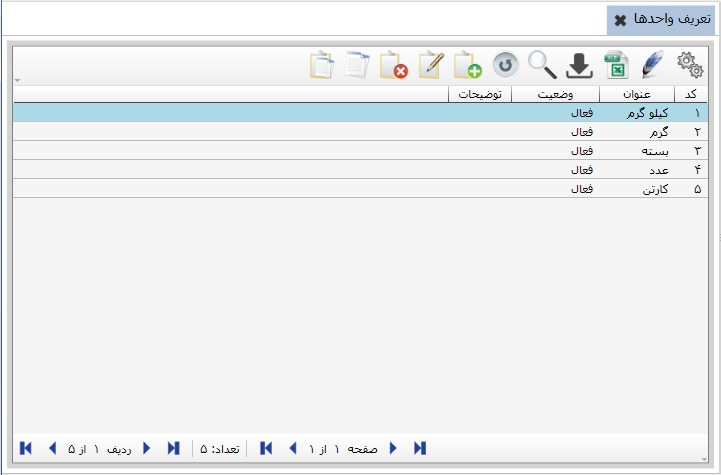
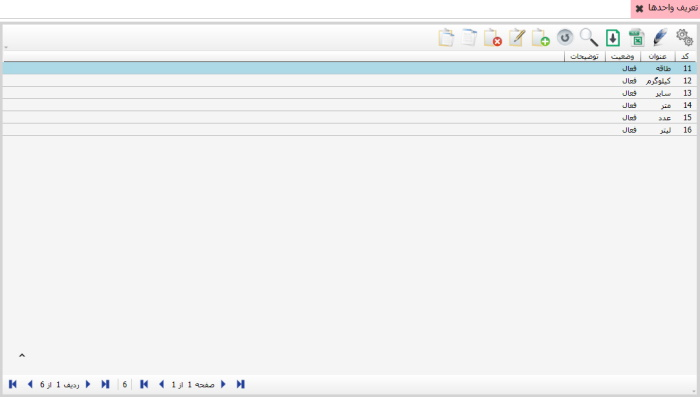
تغییرات عکس و آیکن در واحد ها

Changed region(s): [[0.0, 0.0, 1.0, 0.9975]]

diff --git a/Help/fa-IR/_18_اطلاعات پایه و مشترک/_02_تعریف واحدها/Index.html b/Help/fa-IR/_18_اطلاعات پایه و مشترک/_02_تعریف واحدها/Index.html
@@ -14,8 +14,14 @@
 		</p>
 		<img class="LargPic" src="l1.jpg"/>
 		<p>
-			با زدن کلید (F8) یا کلیک روی گزینه اضافه از منوی ابزار می توانید واحد جدید ایجاد نمایید. شکل زیر فرم ایجاد واحد کالا را نمایش می دهد. 
+			با زدن کلید (F8)یا کلیک روی گزینه 
+			  <img class="PicInText" src="pic1.png"/>
+			   اضافه از منوی ابزار می توانید واحد جدید ایجاد نمایید. شکل زیر فرم ایجاد واحد کالا را نمایش می دهد. 
 		</p>
+
+		
+
+
 		<img class="LargPic" src="l2.jpg"/>
 		<p>
 			در فرم بالا کافی است عنوان واحد مورد نظر را وارد کنید، پس از زدن کلید تایید واحد کالا ایجاد خواهد شد. 
